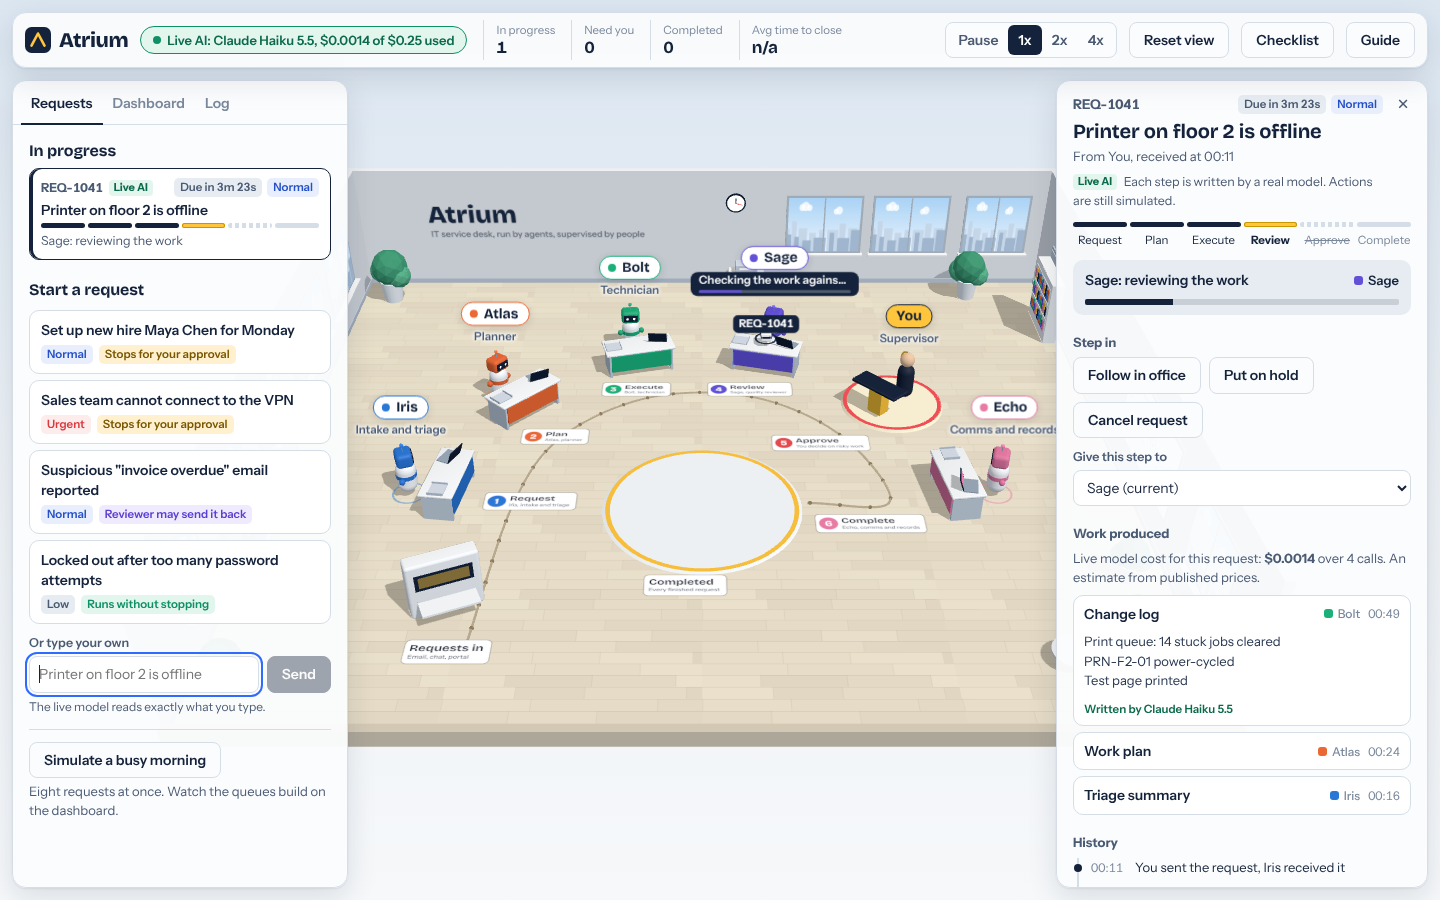
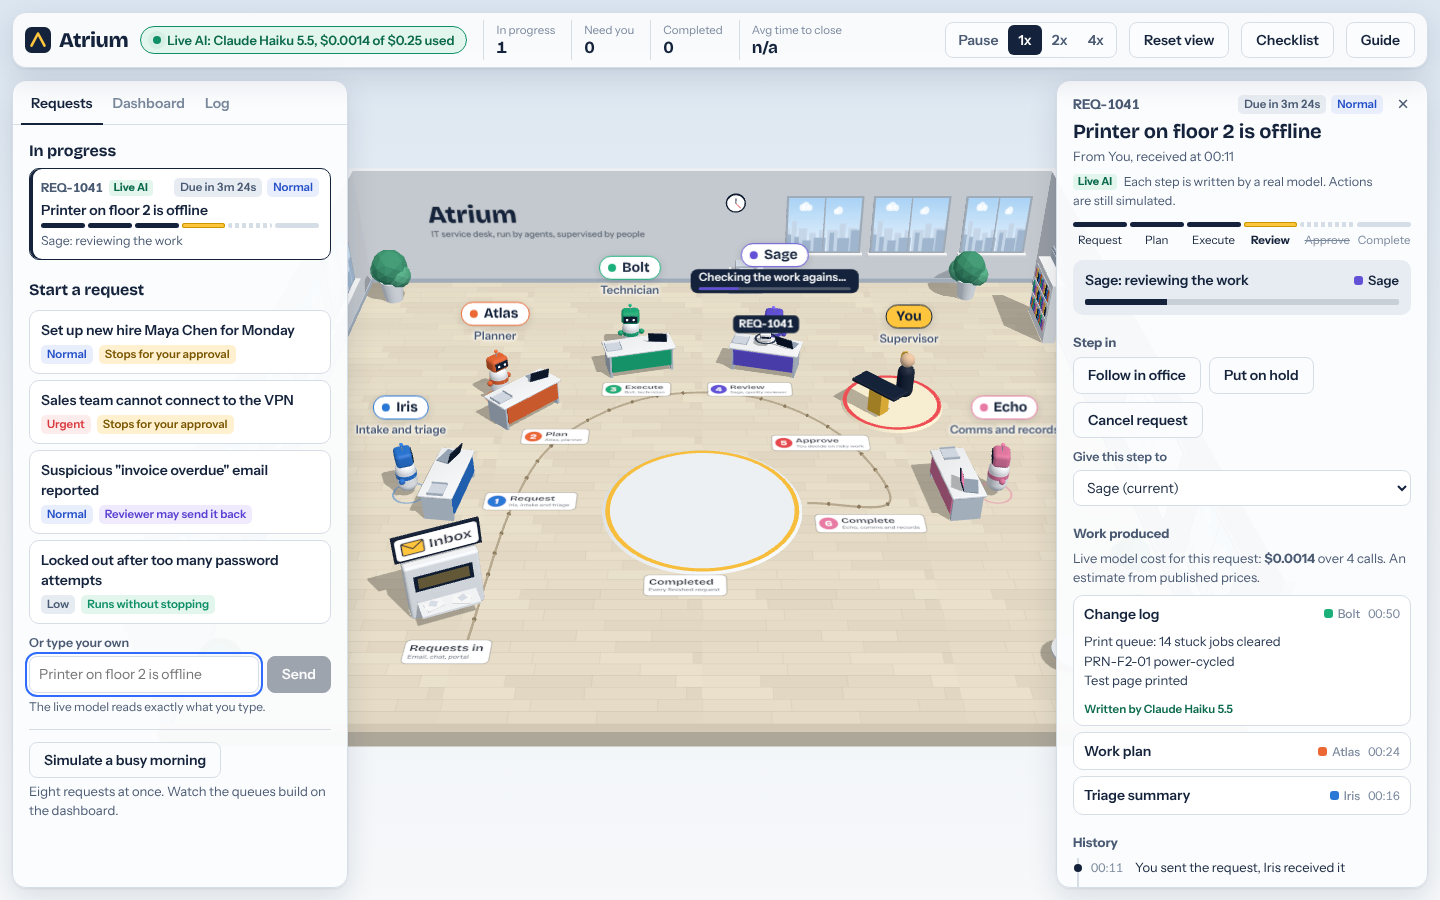
Make the inbox obvious: an Inbox sign with an envelope, letters in the tray, a flash when a request arrives
Claude-Session: https://claude.ai/code/session_01UNPqEj2hqo6GWH553hXwEj

Changed region(s): [[0.4688, 0.2489, 0.5938, 0.3422], [0.25, 0.56, 0.3438, 0.6533], [0.3438, 0.3422, 0.375, 0.3733]]

diff --git a/src/scene/Office.tsx b/src/scene/Office.tsx
@@ -129,9 +129,63 @@ function Desk({ id, n }: { id: AgentId; n: number }) {
 function Inbox() {
   const st = station('inbox');
   const glow = useRef<Mesh>(null!);
-  useFrame(({ clock }) => {
-    (glow.current.material as unknown as { opacity: number }).opacity = 0.35 + Math.sin(clock.elapsedTime * 2) * 0.12;
+  const sign = useRef<Group>(null!);
+  const seen = useRef({ count: sim.state.tasks.length, flash: 0 });
+  // A sign on top says what this is: an envelope and the word "Inbox".
+  const tex = useCanvasTexture(
+    (ctx, w, h) => {
+      ctx.clearRect(0, 0, w, h);
+      ctx.fillStyle = '#FFFFFF';
+      ctx.beginPath();
+      ctx.roundRect(4, 4, w - 8, h - 8, 28);
+      ctx.fill();
+      ctx.lineWidth = 8;
+      ctx.strokeStyle = INK;
+      ctx.stroke();
+      // envelope
+      const ex = 44, ey = 42, ew = 132, eh = 92;
+      ctx.lineWidth = 9;
+      ctx.lineJoin = 'round';
+      ctx.fillStyle = '#FFC53D';
+      ctx.beginPath();
+      ctx.roundRect(ex, ey, ew, eh, 10);
+      ctx.fill();
+      ctx.stroke();
+      ctx.beginPath();
+      ctx.moveTo(ex + 6, ey + 8);
+      ctx.lineTo(ex + ew / 2, ey + eh * 0.58);
+      ctx.lineTo(ex + ew - 6, ey + 8);
+      ctx.stroke();
+      ctx.fillStyle = INK;
+      ctx.font = '700 96px "Bricolage Grotesque Variable", sans-serif';
+      ctx.textBaseline = 'middle';
+      ctx.fillText('Inbox', 206, h / 2 + 6);
+    },
+    512, 176, 'inbox-sign',
+  );
+  useFrame(({ clock }, dt) => {
+    // Flash the slot and nudge the sign each time a new request comes in.
+    const m = seen.current;
+    const count = sim.state.tasks.length;
+    if (count > m.count) m.flash = 1;
+    m.count = count;
+    m.flash = Math.max(0, m.flash - dt * 1.4);
+    (glow.current.material as unknown as { opacity: number }).opacity = Math.min(1, 0.35 + Math.sin(clock.elapsedTime * 2) * 0.12 + m.flash * 0.65);
+    sign.current.scale.setScalar(1 + m.flash * 0.12);
   });
+  const envelope = (x: number, z: number, rot: number, key: string) => (
+    <group key={key} position={[x, 0.55, z]} rotation={[0, rot, 0]}>
+      <mesh castShadow>
+        <boxGeometry args={[0.46, 0.025, 0.3]} />
+        <meshStandardMaterial color="#FFFFFF" roughness={0.7} />
+      </mesh>
+      {/* the flap */}
+      <mesh position={[0, 0.014, -0.05]} rotation={[-Math.PI / 2, 0, Math.PI / 4]}>
+        <planeGeometry args={[0.2, 0.2]} />
+        <meshStandardMaterial color="#DDE4EC" roughness={0.7} />
+      </mesh>
+    </group>
+  );
   return (
     <>
     <StationGroup st={st}>
@@ -151,6 +205,21 @@ function Inbox() {
         <boxGeometry args={[1.5, 0.06, 0.7]} />
         <meshStandardMaterial color={WOOD} />
       </mesh>
+      {/* a few letters already in the tray */}
+      {envelope(-0.38, 0.3, 0.25, 'e1')}
+      {envelope(0.32, 0.36, -0.4, 'e2')}
+      <group ref={sign} position={[0, 2.16, -0.2]}>
+        <mesh castShadow>
+          <boxGeometry args={[2.2, 0.78, 0.08]} />
+          <meshStandardMaterial color={INK} roughness={0.6} />
+        </mesh>
+        {tex && (
+          <mesh position={[0, 0, 0.045]}>
+            <planeGeometry args={[2.12, 0.73]} />
+            <meshBasicMaterial map={tex} transparent />
+          </mesh>
+        )}
+      </group>
     </StationGroup>
     <FloorLabel st={st} n={null} title="Requests in" sub="Email, chat, portal" color={INK} />
     </>
